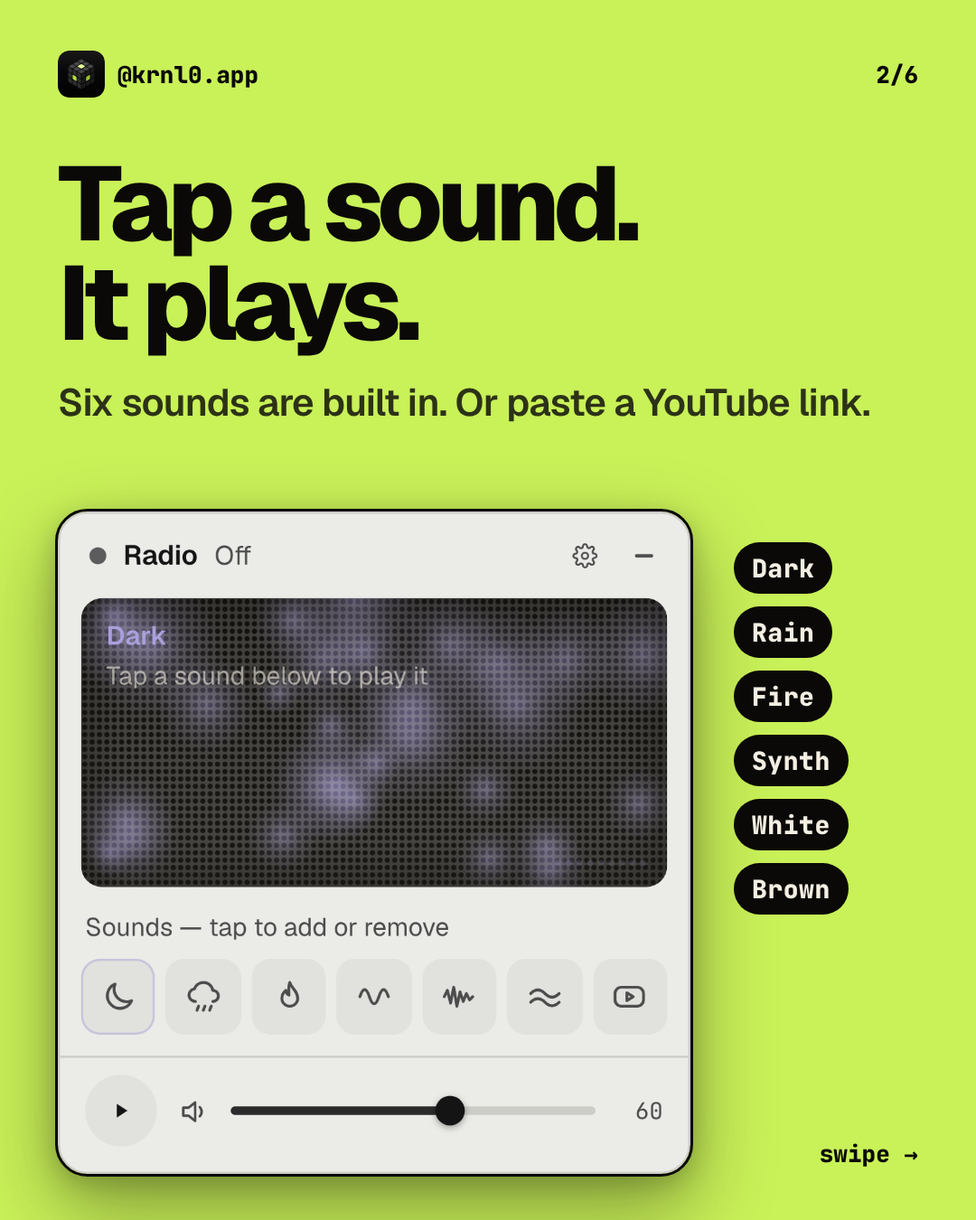
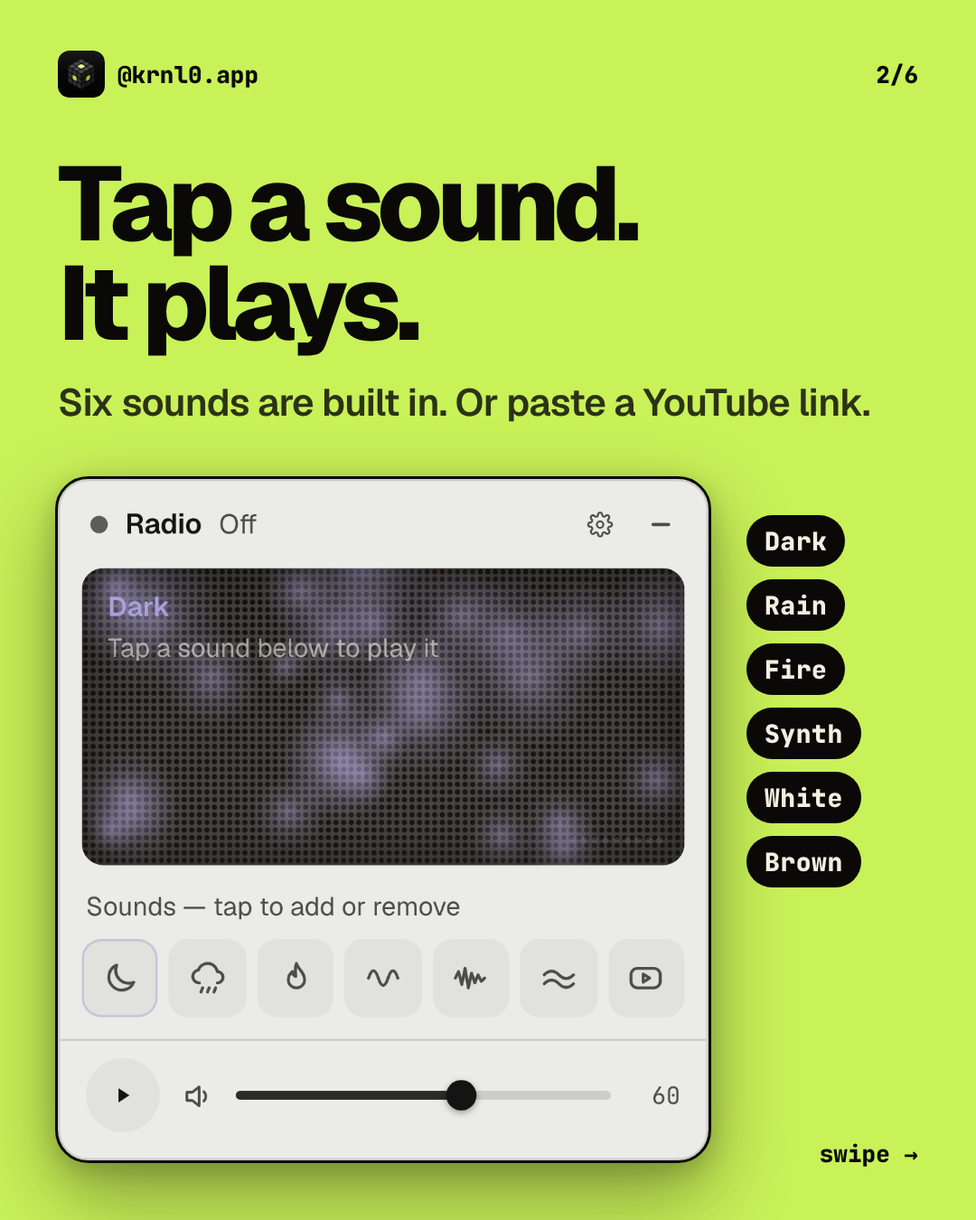
wip(marketing): carousel posts (all but 01 done)

diff --git a/marketing/posts/01-a-day-on-krnl0/slides/slide-1.html b/marketing/posts/01-a-day-on-krnl0/slides/slide-1.html
@@ -2,8 +2,9 @@
 <style>
 .t { position:absolute; left:64px; right:64px; }
 .chip.sm { font-size:26px; padding:9px 18px; }
-.win img { filter: drop-shadow(0 46px 60px rgba(0,0,0,.30)) drop-shadow(0 10px 20px rgba(0,0,0,.20)); }
+.win img { filter: drop-shadow(1.5px 0 0 #0a0908) drop-shadow(-1.5px 0 0 #0a0908) drop-shadow(0 1.5px 0 #0a0908) drop-shadow(0 -1.5px 0 #0a0908) drop-shadow(0 46px 60px rgba(0,0,0,.32)) drop-shadow(0 10px 20px rgba(0,0,0,.2)); }
+.slide.ink .chip { background: var(--acid); color: var(--ink); }
 .slide.acid .chip, .slide.lav .chip, .slide.cyan .chip, .slide.coral .chip, .slide.paper .chip { background: var(--ink); color: var(--paper); }
-</style></head><body><div class="slide acid"><div class="ghost" style="right:-60px; top:700px; font-size:640px; opacity:.08;">24</div><div class="bar"><div class="brand"><img src="../../_shared/icon.svg"><span>KRNL0</span></div><span>1/8</span></div><div class="t" style="top:150px"><span class="chip sm">A TUESDAY ON KRNL0</span></div>
+</style></head><body><div class="slide acid"><div class="ghost" style="right:-60px; top:700px; font-size:640px; opacity:.08;">24</div><div class="bar"><div class="brand"><img src="../../_shared/icon.svg"><span>KRNL0</span></div><span>1/8 &nbsp;·&nbsp; swipe →</span></div><div class="t" style="top:150px"><span class="chip sm">A TUESDAY ON KRNL0</span></div>
 <div class="t headline" style="top:225px; font-size:150px">Your whole<br>day, one<br>canvas.</div>
-<div class="t" style="top:735px"><div style="display:flex; align-items:center; gap:22px; height:84px"><span class="chip sm" style="min-width:76px; text-align:center">01</span><span style="font-weight:700; font-size:50px; letter-spacing:-0.03em">Plan the day</span></div><div style="display:flex; align-items:center; gap:22px; height:84px"><span class="chip sm" style="min-width:76px; text-align:center">02</span><span style="font-weight:700; font-size:50px; letter-spacing:-0.03em">Give it a time</span></div><div style="display:flex; align-items:center; gap:22px; height:84px"><span class="chip sm" style="min-width:76px; text-align:center">03</span><span style="font-weight:700; font-size:50px; letter-spacing:-0.03em">Press start</span></div><div style="display:flex; align-items:center; gap:22px; height:84px"><span class="chip sm" style="min-width:76px; text-align:center">04</span><span style="font-weight:700; font-size:50px; letter-spacing:-0.03em">Tick the habits</span></div><div style="display:flex; align-items:center; gap:22px; height:84px"><span class="chip sm" style="min-width:76px; text-align:center">05</span><span style="font-weight:700; font-size:50px; letter-spacing:-0.03em">Close the day</span></div><div style="display:flex; align-items:center; gap:22px; height:84px"><span class="chip sm" style="min-width:76px; text-align:center">06</span><span style="font-weight:700; font-size:50px; letter-spacing:-0.03em">See where it went</span></div></div><div class="swipe">swipe <span style="font-size:34px;line-height:1">→</span></div></div></body></html>
+<div class="t" style="top:735px"><div style="display:flex; align-items:center; gap:22px; height:84px"><span class="chip sm" style="min-width:76px; text-align:center">01</span><span style="font-weight:700; font-size:50px; letter-spacing:-0.03em">Plan the day</span></div><div style="display:flex; align-items:center; gap:22px; height:84px"><span class="chip sm" style="min-width:76px; text-align:center">02</span><span style="font-weight:700; font-size:50px; letter-spacing:-0.03em">Give it a time</span></div><div style="display:flex; align-items:center; gap:22px; height:84px"><span class="chip sm" style="min-width:76px; text-align:center">03</span><span style="font-weight:700; font-size:50px; letter-spacing:-0.03em">Press start</span></div><div style="display:flex; align-items:center; gap:22px; height:84px"><span class="chip sm" style="min-width:76px; text-align:center">04</span><span style="font-weight:700; font-size:50px; letter-spacing:-0.03em">Tick the habits</span></div><div style="display:flex; align-items:center; gap:22px; height:84px"><span class="chip sm" style="min-width:76px; text-align:center">05</span><span style="font-weight:700; font-size:50px; letter-spacing:-0.03em">Close the day</span></div><div style="display:flex; align-items:center; gap:22px; height:84px"><span class="chip sm" style="min-width:76px; text-align:center">06</span><span style="font-weight:700; font-size:50px; letter-spacing:-0.03em">See where it went</span></div></div></div></body></html>

diff --git a/marketing/posts/07-focus-sound/slides.html b/marketing/posts/07-focus-sound/slides.html
@@ -7,6 +7,7 @@
  .t .sub{margin-top:30px;max-width:900px;font-size:42px;opacity:.82}
  .img{position:absolute;display:block}
  .img{outline:3px solid #0a0908;outline-offset:0}
+ .slide.ink .bar img{outline:2px solid rgba(244,239,226,.3)}
  .slide.ink .img,.slide.ink .win{outline-color:rgba(244,239,226,.28)}
  .win{outline:3px solid #0a0908}
  .img.shadow{filter:drop-shadow(0 36px 44px rgba(0,0,0,.30)) drop-shadow(0 8px 14px rgba(0,0,0,.22))}
@@ -24,17 +25,16 @@
   <div class="ghost" style="left:-30px;top:760px;font-size:430px;color:#0a0908">20:58</div>
   <div class="bar"><div class="brand"><img src="../_shared/icon.svg" alt=""><span>@krnl0.app</span></div><span>1/6</span></div>
   <div class="t"><div class="headline">Give your<br>focus a<br>soundtrack.</div></div>
-  <img class="img shadow" src="assets/radio-rain.png" style="left:400px;top:596px;width:580px" alt="">
-  <div class="chips" style="left:64px;top:1180px"><span class="chip">Built in</span></div>
-  <div class="swipe">swipe →</div>
+  <img class="img shadow" src="assets/radio-rain.png" style="left:410px;top:575px;width:570px" alt="">
+    <div class="swipe">swipe →</div>
 </section>
 
 <!-- 2 · the sounds -->
 <section class="slide acid" id="s2">
   <div class="bar"><div class="brand"><img src="../_shared/icon.svg" alt=""><span>@krnl0.app</span></div><span>2/6</span></div>
   <div class="t"><div class="headline">Tap a sound.<br>It plays.</div><div class="sub">Six sounds are built in. Or paste a YouTube link.</div></div>
-  <img class="img shadow" src="assets/radio-off.png" style="left:64px;top:566px;width:700px" alt="">
-  <div class="chips" style="left:812px;top:600px;width:210px;flex-direction:column;align-items:flex-start;gap:14px">
+  <img class="img shadow" src="assets/radio-off.png" style="left:64px;top:530px;width:720px" alt="">
+  <div class="chips" style="left:826px;top:570px;width:190px;flex-direction:column;align-items:flex-start;gap:14px">
     <span class="chip">Dark</span><span class="chip">Rain</span><span class="chip">Fire</span><span class="chip">Synth</span><span class="chip">White</span><span class="chip">Brown</span>
   </div>
   <div class="swipe">swipe →</div>
@@ -44,7 +44,7 @@
 <section class="slide cyan" id="s3">
   <div class="bar"><div class="brand"><img src="../_shared/icon.svg" alt=""><span>@krnl0.app</span></div><span>3/6</span></div>
   <div class="t"><div class="headline">Stack them.</div><div class="sub">Rain, fire and a soft synth. Every sound keeps its own volume.</div></div>
-  <img class="img shadow" src="assets/radio-mix.png" style="left:285px;top:576px;width:510px" alt="">
+  <img class="img shadow" src="assets/radio-mix.png" style="left:265px;top:520px;width:550px" alt="">
   <div class="swipe">swipe →</div>
 </section>
 
@@ -52,7 +52,7 @@
 <section class="slide coral" id="s4">
   <div class="bar"><div class="brand"><img src="../_shared/icon.svg" alt=""><span>@krnl0.app</span></div><span>4/6</span></div>
   <div class="t"><div class="headline">Tune every<br>sound.</div><div class="sub">Softness, density, reverb. All yours.</div></div>
-  <img class="img shadow" src="assets/radio-settings.png" style="left:305px;top:566px;width:470px" alt="">
+  <img class="img shadow" src="assets/radio-settings.png" style="left:295px;top:530px;width:490px" alt="">
   <div class="swipe">swipe →</div>
 </section>
 
@@ -61,8 +61,8 @@
   <div class="ghost" style="left:-30px;top:860px;font-size:430px">25:00</div>
   <div class="bar"><div class="brand"><img src="../_shared/icon.svg" alt=""><span>@krnl0.app</span></div><span>5/6</span></div>
   <div class="t"><div class="headline">Press start.<br>Press play.</div><div class="sub">The Timer counts. The radio plays.</div></div>
-  <div class="win" style="left:64px;top:738px;width:450px;height:450px"><img src="assets/timer.png" alt=""></div>
-  <img class="img shadow" src="assets/radio-mix.png" style="left:566px;top:650px;width:450px" alt="">
+  <div class="win" style="left:64px;top:700px;width:440px;height:440px"><img src="assets/timer.png" alt=""></div>
+  <img class="img shadow" src="assets/radio-mix.png" style="left:576px;top:615px;width:440px" alt="">
   <div class="swipe">swipe →</div>
 </section>
 

diff --git a/marketing/posts/01-a-day-on-krnl0/slides/slide-5.html b/marketing/posts/01-a-day-on-krnl0/slides/slide-5.html
@@ -2,8 +2,9 @@
 <style>
 .t { position:absolute; left:64px; right:64px; }
 .chip.sm { font-size:26px; padding:9px 18px; }
-.win img { filter: drop-shadow(0 46px 60px rgba(0,0,0,.30)) drop-shadow(0 10px 20px rgba(0,0,0,.20)); }
+.win img { filter: drop-shadow(1.5px 0 0 #0a0908) drop-shadow(-1.5px 0 0 #0a0908) drop-shadow(0 1.5px 0 #0a0908) drop-shadow(0 -1.5px 0 #0a0908) drop-shadow(0 46px 60px rgba(0,0,0,.32)) drop-shadow(0 10px 20px rgba(0,0,0,.2)); }
+.slide.ink .chip { background: var(--acid); color: var(--ink); }
 .slide.acid .chip, .slide.lav .chip, .slide.cyan .chip, .slide.coral .chip, .slide.paper .chip { background: var(--ink); color: var(--paper); }
-</style></head><body><div class="slide acid"><div class="ghost" style="right:-30px; top:250px; font-size:560px; opacity:.07;">04</div><div class="bar"><div class="brand"><img src="../../_shared/icon.svg"><span>KRNL0</span></div><span>5/8</span></div><div class="t" style="top:150px"><span class="chip sm">04 · HABITS</span></div>
-<div class="t headline" style="top:225px; font-size:112px">Habits you can<br>see building.</div>
-<div class="t sub" style="top:465px; width:860px">Tick them off. Streaks do the rest.</div><div class="win" style="left:140px; top:630px; width:800px; height:533px; border-radius:0; box-shadow:none; overflow:visible"><img src="../assets/habits.png"></div><div class="swipe">swipe <span style="font-size:34px;line-height:1">→</span></div></div></body></html>
+</style></head><body><div class="slide acid"><div class="ghost" style="right:-30px; top:250px; font-size:560px; opacity:.07;">04</div><div class="bar"><div class="brand"><img src="../../_shared/icon.svg"><span>KRNL0</span></div><span>5/8 &nbsp;·&nbsp; swipe →</span></div><div class="t" style="top:150px"><span class="chip sm">04 · HABITS</span></div>
+<div class="t headline" style="top:225px; font-size:104px">Habits you can<br>see building.</div>
+<div class="t sub" style="top:449px; width:860px">Tick them off. Streaks do the rest.</div><div class="win" style="left:90px; top:580px; width:900px; height:600px; border-radius:0; box-shadow:none; overflow:visible"><img src="../assets/habits.png"></div></div></body></html>

diff --git a/marketing/posts/01-a-day-on-krnl0/slides/slide-7.html b/marketing/posts/01-a-day-on-krnl0/slides/slide-7.html
@@ -2,8 +2,9 @@
 <style>
 .t { position:absolute; left:64px; right:64px; }
 .chip.sm { font-size:26px; padding:9px 18px; }
-.win img { filter: drop-shadow(0 46px 60px rgba(0,0,0,.30)) drop-shadow(0 10px 20px rgba(0,0,0,.20)); }
+.win img { filter: drop-shadow(1.5px 0 0 #0a0908) drop-shadow(-1.5px 0 0 #0a0908) drop-shadow(0 1.5px 0 #0a0908) drop-shadow(0 -1.5px 0 #0a0908) drop-shadow(0 46px 60px rgba(0,0,0,.32)) drop-shadow(0 10px 20px rgba(0,0,0,.2)); }
+.slide.ink .chip { background: var(--acid); color: var(--ink); }
 .slide.acid .chip, .slide.lav .chip, .slide.cyan .chip, .slide.coral .chip, .slide.paper .chip { background: var(--ink); color: var(--paper); }
-</style></head><body><div class="slide lav"><div class="ghost" style="right:-30px; top:250px; font-size:560px; opacity:.07;">06</div><div class="bar"><div class="brand"><img src="../../_shared/icon.svg"><span>KRNL0</span></div><span>7/8</span></div><div class="t" style="top:150px"><span class="chip sm">06 · REVIEW</span></div>
-<div class="t headline" style="top:225px; font-size:112px">See where<br>the time went.</div>
-<div class="t sub" style="top:465px; width:860px">Planned against spent, task by task.</div><div class="win" style="left:190px; top:570px; width:700px; height:700px; border-radius:0; box-shadow:none; overflow:visible"><img src="../assets/planned.png"></div><div class="swipe">swipe <span style="font-size:34px;line-height:1">→</span></div></div></body></html>
+</style></head><body><div class="slide lav"><div class="ghost" style="right:-30px; top:250px; font-size:560px; opacity:.07;">06</div><div class="bar"><div class="brand"><img src="../../_shared/icon.svg"><span>KRNL0</span></div><span>7/8 &nbsp;·&nbsp; swipe →</span></div><div class="t" style="top:150px"><span class="chip sm">06 · REVIEW</span></div>
+<div class="t headline" style="top:225px; font-size:104px">See where<br>the time went.</div>
+<div class="t sub" style="top:449px; width:860px">Planned against spent, task by task.</div><div class="win" style="left:150px; top:500px; width:780px; height:780px; border-radius:0; box-shadow:none; overflow:visible"><img src="../assets/planned.png"></div></div></body></html>

diff --git a/marketing/posts/01-a-day-on-krnl0/slides/slide-3.html b/marketing/posts/01-a-day-on-krnl0/slides/slide-3.html
@@ -2,8 +2,9 @@
 <style>
 .t { position:absolute; left:64px; right:64px; }
 .chip.sm { font-size:26px; padding:9px 18px; }
-.win img { filter: drop-shadow(0 46px 60px rgba(0,0,0,.30)) drop-shadow(0 10px 20px rgba(0,0,0,.20)); }
+.win img { filter: drop-shadow(1.5px 0 0 #0a0908) drop-shadow(-1.5px 0 0 #0a0908) drop-shadow(0 1.5px 0 #0a0908) drop-shadow(0 -1.5px 0 #0a0908) drop-shadow(0 46px 60px rgba(0,0,0,.32)) drop-shadow(0 10px 20px rgba(0,0,0,.2)); }
+.slide.ink .chip { background: var(--acid); color: var(--ink); }
 .slide.acid .chip, .slide.lav .chip, .slide.cyan .chip, .slide.coral .chip, .slide.paper .chip { background: var(--ink); color: var(--paper); }
-</style></head><body><div class="slide cyan"><div class="ghost" style="right:-30px; top:250px; font-size:560px; opacity:.07;">02</div><div class="bar"><div class="brand"><img src="../../_shared/icon.svg"><span>KRNL0</span></div><span>3/8</span></div><div class="t" style="top:150px"><span class="chip sm">02 · SCHEDULE</span></div>
-<div class="t headline" style="top:225px; font-size:120px">Give every<br>plan a time.</div>
-<div class="t sub" style="top:481px; width:860px">Drop it on the calendar. One glance.</div><div class="win" style="left:296px; top:580px; width:488px; height:686px; border-radius:0; box-shadow:none; overflow:visible"><img src="../assets/cal.png"></div><div class="swipe">swipe <span style="font-size:34px;line-height:1">→</span></div></div></body></html>
+</style></head><body><div class="slide cyan"><div class="ghost" style="right:-30px; top:250px; font-size:560px; opacity:.07;">02</div><div class="bar"><div class="brand"><img src="../../_shared/icon.svg"><span>KRNL0</span></div><span>3/8 &nbsp;·&nbsp; swipe →</span></div><div class="t" style="top:150px"><span class="chip sm">02 · SCHEDULE</span></div>
+<div class="t headline" style="top:225px; font-size:104px">Give every<br>plan a time.</div>
+<div class="t sub" style="top:449px; width:860px">Drop it on the calendar. One glance.</div><div class="win" style="left:90px; top:510px; width:900px; height:780px; border-radius:0; box-shadow:none; overflow:visible"><img src="../assets/cal.png"></div></div></body></html>

diff --git a/marketing/posts/01-a-day-on-krnl0/slides/slide-2.html b/marketing/posts/01-a-day-on-krnl0/slides/slide-2.html
@@ -2,8 +2,9 @@
 <style>
 .t { position:absolute; left:64px; right:64px; }
 .chip.sm { font-size:26px; padding:9px 18px; }
-.win img { filter: drop-shadow(0 46px 60px rgba(0,0,0,.30)) drop-shadow(0 10px 20px rgba(0,0,0,.20)); }
+.win img { filter: drop-shadow(1.5px 0 0 #0a0908) drop-shadow(-1.5px 0 0 #0a0908) drop-shadow(0 1.5px 0 #0a0908) drop-shadow(0 -1.5px 0 #0a0908) drop-shadow(0 46px 60px rgba(0,0,0,.32)) drop-shadow(0 10px 20px rgba(0,0,0,.2)); }
+.slide.ink .chip { background: var(--acid); color: var(--ink); }
 .slide.acid .chip, .slide.lav .chip, .slide.cyan .chip, .slide.coral .chip, .slide.paper .chip { background: var(--ink); color: var(--paper); }
-</style></head><body><div class="slide lav"><div class="ghost" style="right:-30px; top:250px; font-size:560px; opacity:.07;">01</div><div class="bar"><div class="brand"><img src="../../_shared/icon.svg"><span>KRNL0</span></div><span>2/8</span></div><div class="t" style="top:150px"><span class="chip sm">01 · MORNING</span></div>
-<div class="t headline" style="top:225px; font-size:120px">Start with<br>the list.</div>
-<div class="t sub" style="top:481px; width:860px">Type it in one line. Time included.</div><div class="win" style="left:140px; top:620px; width:800px; height:415px; border-radius:0; box-shadow:none; overflow:visible"><img src="../assets/todo.png"></div><div class="swipe">swipe <span style="font-size:34px;line-height:1">→</span></div></div></body></html>
+</style></head><body><div class="slide lav"><div class="ghost" style="right:-30px; top:250px; font-size:560px; opacity:.07;">01</div><div class="bar"><div class="brand"><img src="../../_shared/icon.svg"><span>KRNL0</span></div><span>2/8 &nbsp;·&nbsp; swipe →</span></div><div class="t" style="top:150px"><span class="chip sm">01 · MORNING</span></div>
+<div class="t headline" style="top:225px; font-size:104px">Start with<br>the list.</div>
+<div class="t sub" style="top:449px; width:860px">Type it in one line. Time included.</div><div class="win" style="left:90px; top:600px; width:900px; height:383px; border-radius:0; box-shadow:none; overflow:visible"><img src="../assets/todo.png"></div></div></body></html>

diff --git a/marketing/posts/01-a-day-on-krnl0/slides/slide-4.html b/marketing/posts/01-a-day-on-krnl0/slides/slide-4.html
@@ -2,8 +2,9 @@
 <style>
 .t { position:absolute; left:64px; right:64px; }
 .chip.sm { font-size:26px; padding:9px 18px; }
-.win img { filter: drop-shadow(0 46px 60px rgba(0,0,0,.30)) drop-shadow(0 10px 20px rgba(0,0,0,.20)); }
+.win img { filter: drop-shadow(1.5px 0 0 #0a0908) drop-shadow(-1.5px 0 0 #0a0908) drop-shadow(0 1.5px 0 #0a0908) drop-shadow(0 -1.5px 0 #0a0908) drop-shadow(0 46px 60px rgba(0,0,0,.32)) drop-shadow(0 10px 20px rgba(0,0,0,.2)); }
+.slide.ink .chip { background: var(--acid); color: var(--ink); }
 .slide.acid .chip, .slide.lav .chip, .slide.cyan .chip, .slide.coral .chip, .slide.paper .chip { background: var(--ink); color: var(--paper); }
-</style></head><body><div class="slide coral"><div class="ghost" style="right:-30px; top:250px; font-size:560px; opacity:.07;">03</div><div class="bar"><div class="brand"><img src="../../_shared/icon.svg"><span>KRNL0</span></div><span>4/8</span></div><div class="t" style="top:150px"><span class="chip sm">03 · FOCUS</span></div>
-<div class="t headline" style="top:225px; font-size:120px">Press start.<br>It records.</div>
-<div class="t sub" style="top:481px; width:860px">Pick the plan. Hit start.</div><div class="win" style="left:190px; top:570px; width:700px; height:700px; border-radius:0; box-shadow:none; overflow:visible"><img src="../assets/timer.png"></div><div class="swipe">swipe <span style="font-size:34px;line-height:1">→</span></div></div></body></html>
+</style></head><body><div class="slide coral"><div class="ghost" style="right:-30px; top:250px; font-size:560px; opacity:.07;">03</div><div class="bar"><div class="brand"><img src="../../_shared/icon.svg"><span>KRNL0</span></div><span>4/8 &nbsp;·&nbsp; swipe →</span></div><div class="t" style="top:150px"><span class="chip sm">03 · FOCUS</span></div>
+<div class="t headline" style="top:225px; font-size:104px">Press start.<br>It records.</div>
+<div class="t sub" style="top:449px; width:860px">Pick the plan. Hit start.</div><div class="win" style="left:90px; top:530px; width:900px; height:733px; border-radius:0; box-shadow:none; overflow:visible"><img src="../assets/timer.png"></div></div></body></html>

diff --git a/marketing/posts/01-a-day-on-krnl0/slides/slide-6.html b/marketing/posts/01-a-day-on-krnl0/slides/slide-6.html
@@ -2,8 +2,9 @@
 <style>
 .t { position:absolute; left:64px; right:64px; }
 .chip.sm { font-size:26px; padding:9px 18px; }
-.win img { filter: drop-shadow(0 46px 60px rgba(0,0,0,.30)) drop-shadow(0 10px 20px rgba(0,0,0,.20)); }
+.win img { filter: drop-shadow(1.5px 0 0 #0a0908) drop-shadow(-1.5px 0 0 #0a0908) drop-shadow(0 1.5px 0 #0a0908) drop-shadow(0 -1.5px 0 #0a0908) drop-shadow(0 46px 60px rgba(0,0,0,.32)) drop-shadow(0 10px 20px rgba(0,0,0,.2)); }
+.slide.ink .chip { background: var(--acid); color: var(--ink); }
 .slide.acid .chip, .slide.lav .chip, .slide.cyan .chip, .slide.coral .chip, .slide.paper .chip { background: var(--ink); color: var(--paper); }
-</style></head><body><div class="slide paper"><div class="ghost" style="right:-30px; top:250px; font-size:560px; opacity:.07;">05</div><div class="bar"><div class="brand"><img src="../../_shared/icon.svg"><span>KRNL0</span></div><span>6/8</span></div><div class="t" style="top:150px"><span class="chip sm">05 · EVENING</span></div>
-<div class="t headline" style="top:225px; font-size:120px">Close the<br>day.</div>
-<div class="t sub" style="top:481px; width:860px">What got done, and for how long.</div><div class="win" style="left:160px; top:600px; width:760px; height:582px; border-radius:0; box-shadow:none; overflow:visible"><img src="../assets/recap.png"></div><div class="swipe">swipe <span style="font-size:34px;line-height:1">→</span></div></div></body></html>
+</style></head><body><div class="slide ink"><div class="ghost" style="right:-30px; top:250px; font-size:560px; opacity:.07;">05</div><div class="bar"><div class="brand"><img src="../../_shared/icon.svg"><span>KRNL0</span></div><span>6/8 &nbsp;·&nbsp; swipe →</span></div><div class="t" style="top:150px"><span class="chip sm">05 · EVENING</span></div>
+<div class="t headline" style="top:225px; font-size:104px">Close the<br>day.</div>
+<div class="t sub" style="top:449px; width:860px">What got done, and for how long.</div><div class="win" style="left:90px; top:540px; width:900px; height:690px; border-radius:0; box-shadow:none; overflow:visible"><img src="../assets/recap.png"></div></div></body></html>

diff --git a/marketing/posts/01-a-day-on-krnl0/slides/slide-8.html b/marketing/posts/01-a-day-on-krnl0/slides/slide-8.html
@@ -2,7 +2,8 @@
 <style>
 .t { position:absolute; left:64px; right:64px; }
 .chip.sm { font-size:26px; padding:9px 18px; }
-.win img { filter: drop-shadow(0 46px 60px rgba(0,0,0,.30)) drop-shadow(0 10px 20px rgba(0,0,0,.20)); }
+.win img { filter: drop-shadow(1.5px 0 0 #0a0908) drop-shadow(-1.5px 0 0 #0a0908) drop-shadow(0 1.5px 0 #0a0908) drop-shadow(0 -1.5px 0 #0a0908) drop-shadow(0 46px 60px rgba(0,0,0,.32)) drop-shadow(0 10px 20px rgba(0,0,0,.2)); }
+.slide.ink .chip { background: var(--acid); color: var(--ink); }
 .slide.acid .chip, .slide.lav .chip, .slide.cyan .chip, .slide.coral .chip, .slide.paper .chip { background: var(--ink); color: var(--paper); }
 </style></head><body><div class="slide acid"><img src="../../_shared/icon.svg" style="position:absolute; left:64px; top:120px; width:220px; height:220px; border-radius:50px; box-shadow:0 30px 60px rgba(0,0,0,.28)">
 <div class="t headline" style="top:400px; font-size:128px">One canvas.<br>Your whole<br>day.</div>

diff --git a/marketing/posts/01-a-day-on-krnl0/scripts/board.js b/marketing/posts/01-a-day-on-krnl0/scripts/board.js
@@ -50,7 +50,7 @@
     }
     const an = nodes.find(n => n.kind === 'analytics');
     if (an) an.state = { ...an.state, view: 'summary', rangeDays: 7 };
-    const size = { todo: [540, 280], habit: [540, 360], pomo: [540, 440], analytics: [540, 468] };
+    const size = { todo: [540, 230], habit: [540, 360], pomo: [540, 440], analytics: [540, 540] };
     for (const n of nodes) if (n.isMother && size[n.kind]) n.config = { ...n.config, canvasSize: { width: size[n.kind][0], height: size[n.kind][1] } };
     b.edges = []; b.layoutMode = 'free';
     return b;

diff --git a/marketing/posts/01-a-day-on-krnl0/scripts/build.py b/marketing/posts/01-a-day-on-krnl0/scripts/build.py
@@ -6,20 +6,21 @@ N = 8
 STEPS = ["Plan the day", "Give it a time", "Press start", "Tick the habits", "Close the day", "See where it went"]
 
 def page(i, color, body, ghost=None, last=False):
-    bar = "" if last else f'''<div class="bar"><div class="brand"><img src="../../_shared/icon.svg"><span>KRNL0</span></div><span>{i}/{N}</span></div>'''
-    swipe = "" if last else '<div class="swipe">swipe <span style="font-size:34px;line-height:1">→</span></div>'
+    bar = "" if last else f'''<div class="bar"><div class="brand"><img src="../../_shared/icon.svg"><span>KRNL0</span></div><span>{i}/{N} &nbsp;·&nbsp; swipe →</span></div>'''
+    swipe = ""
     g = f'<div class="ghost" style="{ghost}">{ghost_text[i]}</div>' if ghost and i in ghost_text else ""
     return f'''<!doctype html><html><head><meta charset="utf-8"><link rel="stylesheet" href="../../_shared/brand.css">
 <style>
 .t {{ position:absolute; left:64px; right:64px; }}
 .chip.sm {{ font-size:26px; padding:9px 18px; }}
-.win img {{ filter: drop-shadow(0 46px 60px rgba(0,0,0,.30)) drop-shadow(0 10px 20px rgba(0,0,0,.20)); }}
+.win img {{ filter: drop-shadow(1.5px 0 0 #0a0908) drop-shadow(-1.5px 0 0 #0a0908) drop-shadow(0 1.5px 0 #0a0908) drop-shadow(0 -1.5px 0 #0a0908) drop-shadow(0 46px 60px rgba(0,0,0,.32)) drop-shadow(0 10px 20px rgba(0,0,0,.2)); }}
+.slide.ink .chip {{ background: var(--acid); color: var(--ink); }}
 .slide.acid .chip, .slide.lav .chip, .slide.cyan .chip, .slide.coral .chip, .slide.paper .chip {{ background: var(--ink); color: var(--paper); }}
 </style></head><body><div class="slide {color}">{g}{bar}{body}{swipe}</div></body></html>'''
 ghost_text = {1: "24", 2: "01", 3: "02", 4: "03", 5: "04", 6: "05", 7: "06"}
 GH = "right:-30px; top:250px; font-size:560px; opacity:.07;"
 
-def text(chip, head, sub, headsize=120):
+def text(chip, head, sub, headsize=104):
     return f'''<div class="t" style="top:150px"><span class="chip sm">{chip}</span></div>
 <div class="t headline" style="top:225px; font-size:{headsize}px">{head}</div>
 <div class="t sub" style="top:{225 + 2*int(headsize*0.95) + 28}px; width:860px">{sub}</div>'''
@@ -34,17 +35,17 @@ slides[1] = page(1, "acid", f'''<div class="t" style="top:150px"><span class="ch
 <div class="t headline" style="top:225px; font-size:150px">Your whole<br>day, one<br>canvas.</div>
 <div class="t" style="top:735px">{rows}</div>''', ghost="right:-60px; top:700px; font-size:640px; opacity:.08;")
 # 2 plan
-slides[2] = page(2, "lav", text("01 · MORNING", "Start with<br>the list.", "Type it in one line. Time included.") + win("todo", 140, 620, 800, 415), ghost=GH)
+slides[2] = page(2, "lav", text("01 · MORNING", "Start with<br>the list.", "Type it in one line. Time included.") + win("todo", 90, 600, 900, 383), ghost=GH)
 # 3 schedule
-slides[3] = page(3, "cyan", text("02 · SCHEDULE", "Give every<br>plan a time.", "Drop it on the calendar. One glance.") + win("cal", 296, 580, 488, 686), ghost=GH)
+slides[3] = page(3, "cyan", text("02 · SCHEDULE", "Give every<br>plan a time.", "Drop it on the calendar. One glance.") + win("cal", 90, 510, 900, 780), ghost=GH)
 # 4 focus
-slides[4] = page(4, "coral", text("03 · FOCUS", "Press start.<br>It records.", "Pick the plan. Hit start.") + win("timer", 190, 570, 700, 700), ghost=GH)
+slides[4] = page(4, "coral", text("03 · FOCUS", "Press start.<br>It records.", "Pick the plan. Hit start.") + win("timer", 90, 530, 900, 733), ghost=GH)
 # 5 habits
-slides[5] = page(5, "acid", text("04 · HABITS", "Habits you can<br>see building.", "Tick them off. Streaks do the rest.", headsize=112) + win("habits", 140, 630, 800, 533), ghost=GH)
+slides[5] = page(5, "acid", text("04 · HABITS", "Habits you can<br>see building.", "Tick them off. Streaks do the rest.") + win("habits", 90, 580, 900, 600), ghost=GH)
 # 6 recap
-slides[6] = page(6, "paper", text("05 · EVENING", "Close the<br>day.", "What got done, and for how long.") + win("recap", 160, 600, 760, 582), ghost=GH)
+slides[6] = page(6, "ink", text("05 · EVENING", "Close the<br>day.", "What got done, and for how long.") + win("recap", 90, 540, 900, 690), ghost=GH)
 # 7 planned vs spent
-slides[7] = page(7, "lav", text("06 · REVIEW", "See where<br>the time went.", "Planned against spent, task by task.", headsize=112) + win("planned", 190, 570, 700, 700), ghost=GH)
+slides[7] = page(7, "lav", text("06 · REVIEW", "See where<br>the time went.", "Planned against spent, task by task.") + win("planned", 150, 500, 780, 780), ghost=GH)
 # 8 end
 slides[8] = page(8, "acid", '''<img src="../../_shared/icon.svg" style="position:absolute; left:64px; top:120px; width:220px; height:220px; border-radius:50px; box-shadow:0 30px 60px rgba(0,0,0,.28)">
 <div class="t headline" style="top:400px; font-size:128px">One canvas.<br>Your whole<br>day.</div>
